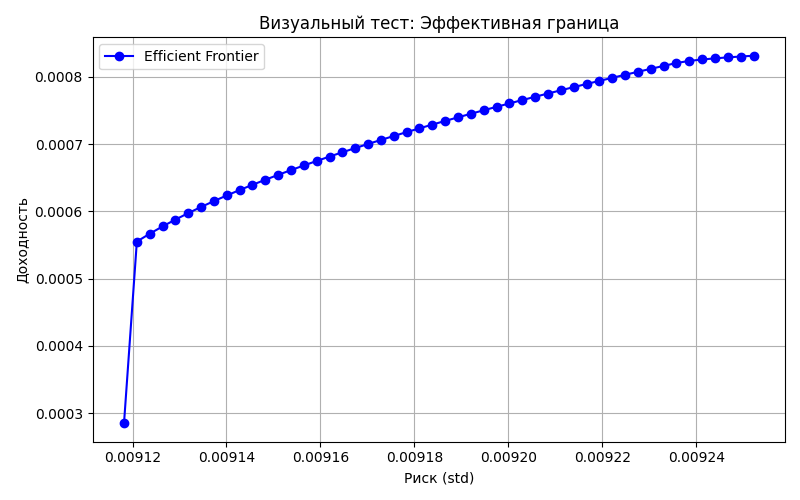
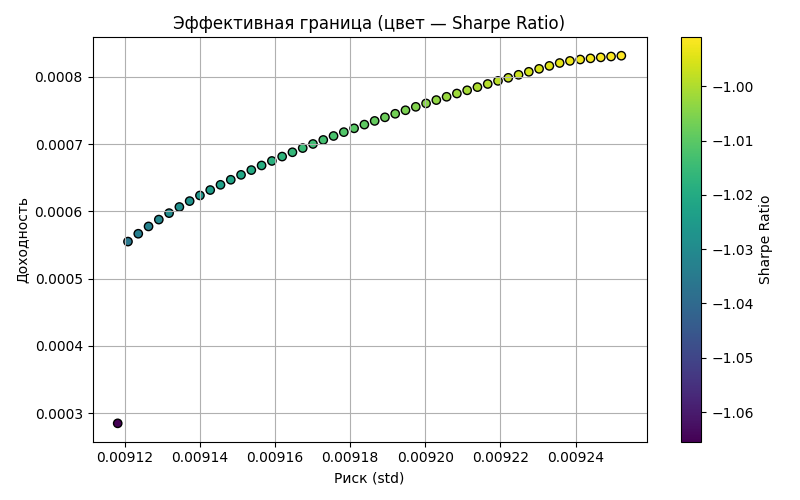
analyzer. Обновил test_visual_frontier

diff --git a/apps/analyzer/reports/markovitz/test_visual_frontier.py b/apps/analyzer/reports/markovitz/test_visual_frontier.py
@@ -5,7 +5,7 @@ from reports.markovitz.optimizer import calculate_markowitz_efficient_frontier
 
 def test_plot_efficient_frontier():
     """
-    Визуальный тест — построение эффективной границы на синтетических данных.
+    Визуальный тест — построение эффективной границы с цветовой маркировкой по коэффициенту Шарпа.
     """
     # Синтетические данные
     np.random.seed(42)
@@ -18,20 +18,22 @@ def test_plot_efficient_frontier():
     # Генерация эффективной границы
     frontier = calculate_markowitz_efficient_frontier(returns, tickers, rf, num_portfolios=50)
 
-    risks = [p["risk"] for p in frontier]
-    returns_ = [p["return"] for p in frontier]
+    risks = np.array([p["risk"] for p in frontier])
+    returns_ = np.array([p["return"] for p in frontier])
+    sharpes = np.array([(ret - rf) / risk if risk > 0 else 0 for ret, risk in zip(returns_, risks)])
 
     # ✅ Создаём папку, если её нет
     os.makedirs("test_output", exist_ok=True)
 
     # 📊 Построение графика
     plt.figure(figsize=(8, 5))
-    plt.plot(risks, returns_, marker='o', linestyle='-', color='blue', label="Efficient Frontier")
+    scatter = plt.scatter(risks, returns_, c=sharpes, cmap="viridis", edgecolors="k")
     plt.xlabel("Риск (std)")
     plt.ylabel("Доходность")
-    plt.title("Визуальный тест: Эффективная граница")
+    plt.title("Эффективная граница (цвет — Sharpe Ratio)")
     plt.grid(True)
-    plt.legend()
+    cbar = plt.colorbar(scatter)
+    cbar.set_label("Sharpe Ratio")
     plt.tight_layout()
     plt.savefig("test_output/efficient_frontier.png")
     print("✅ График сохранён: test_output/efficient_frontier.png")
